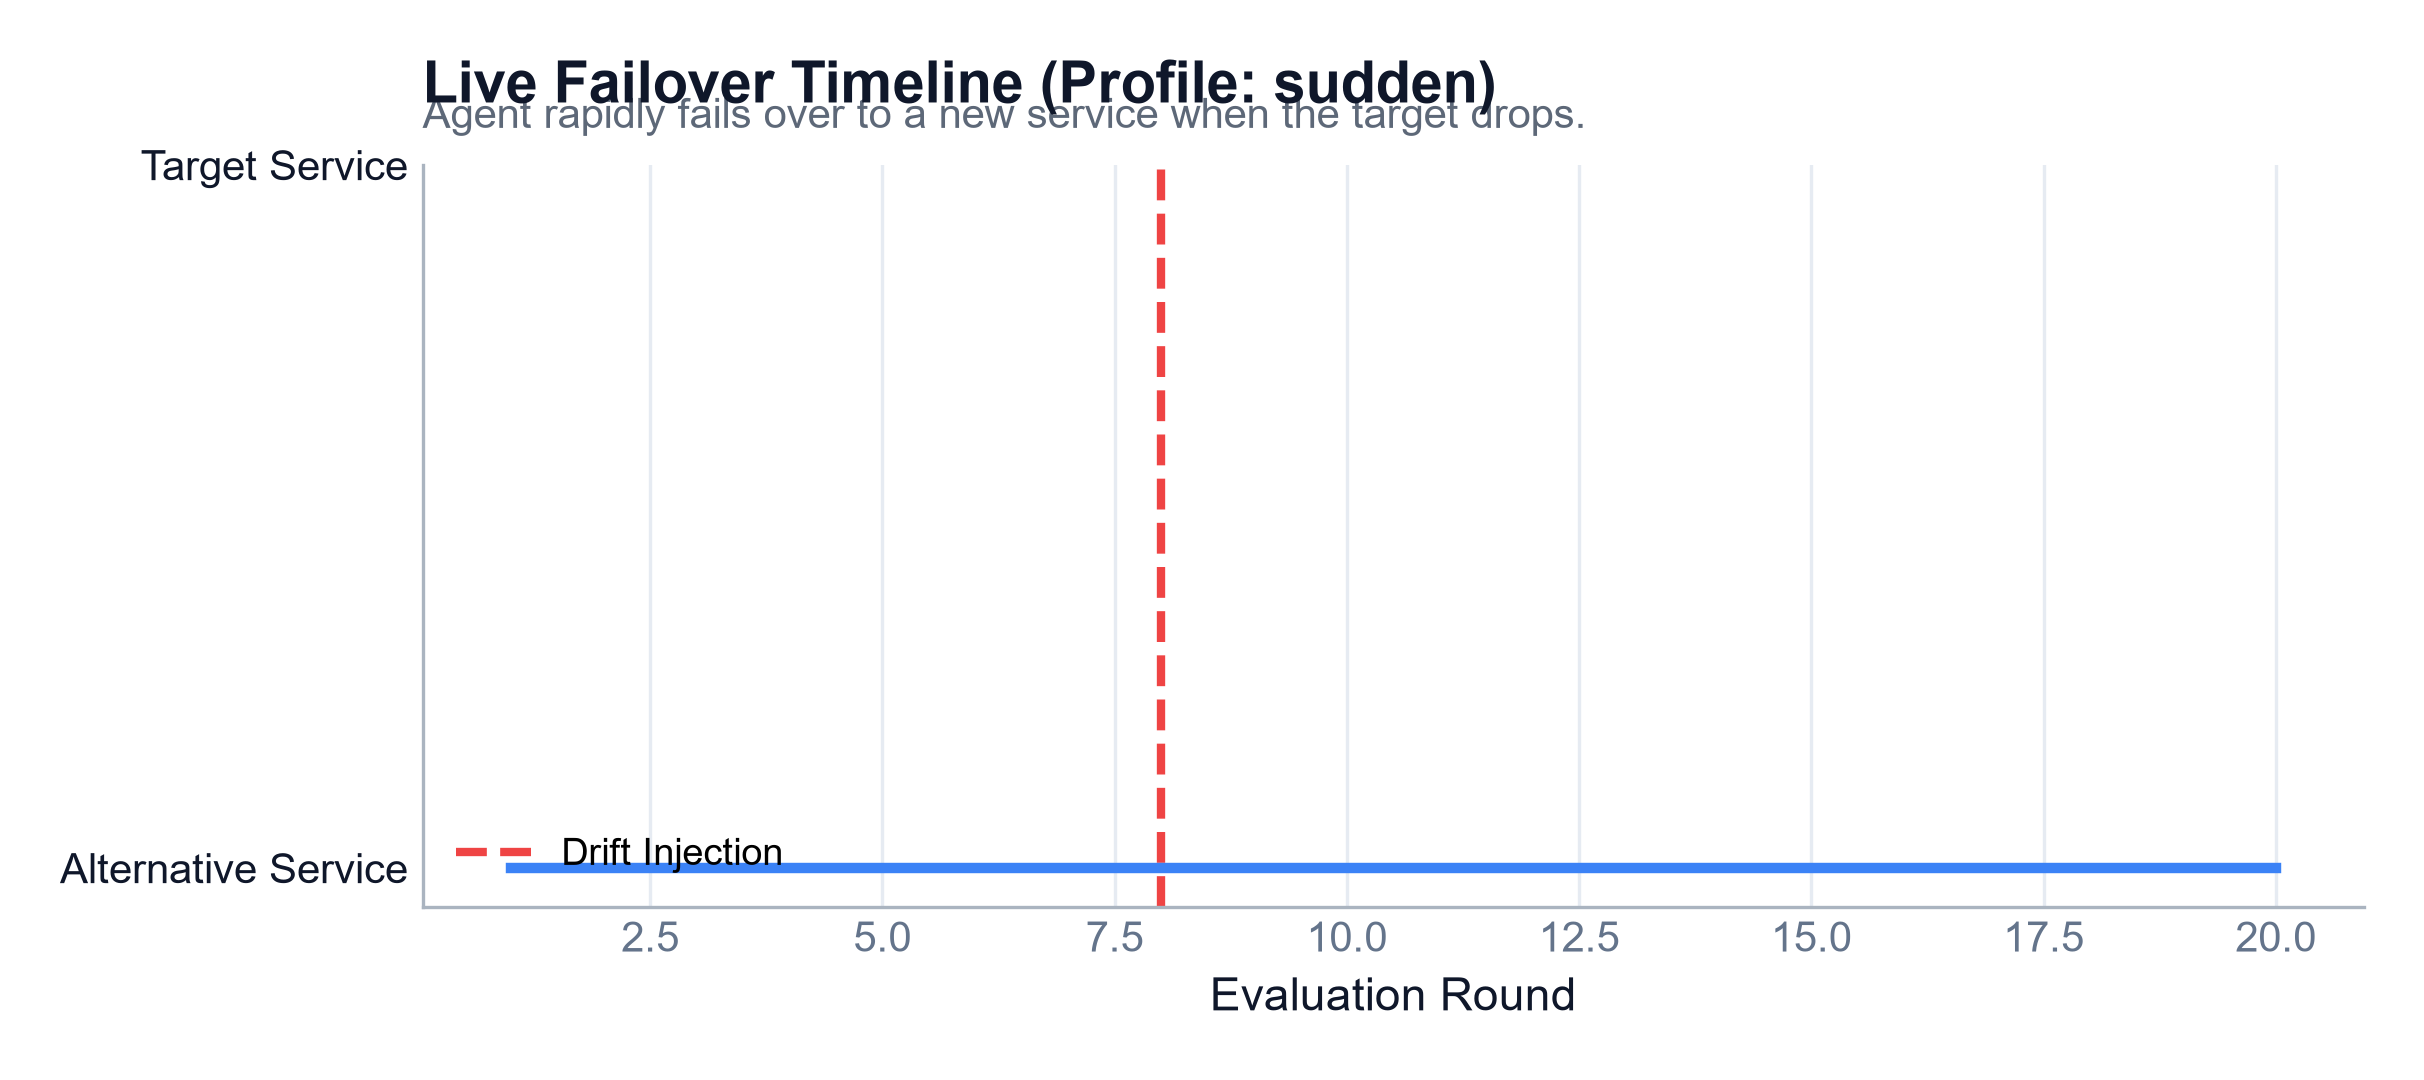
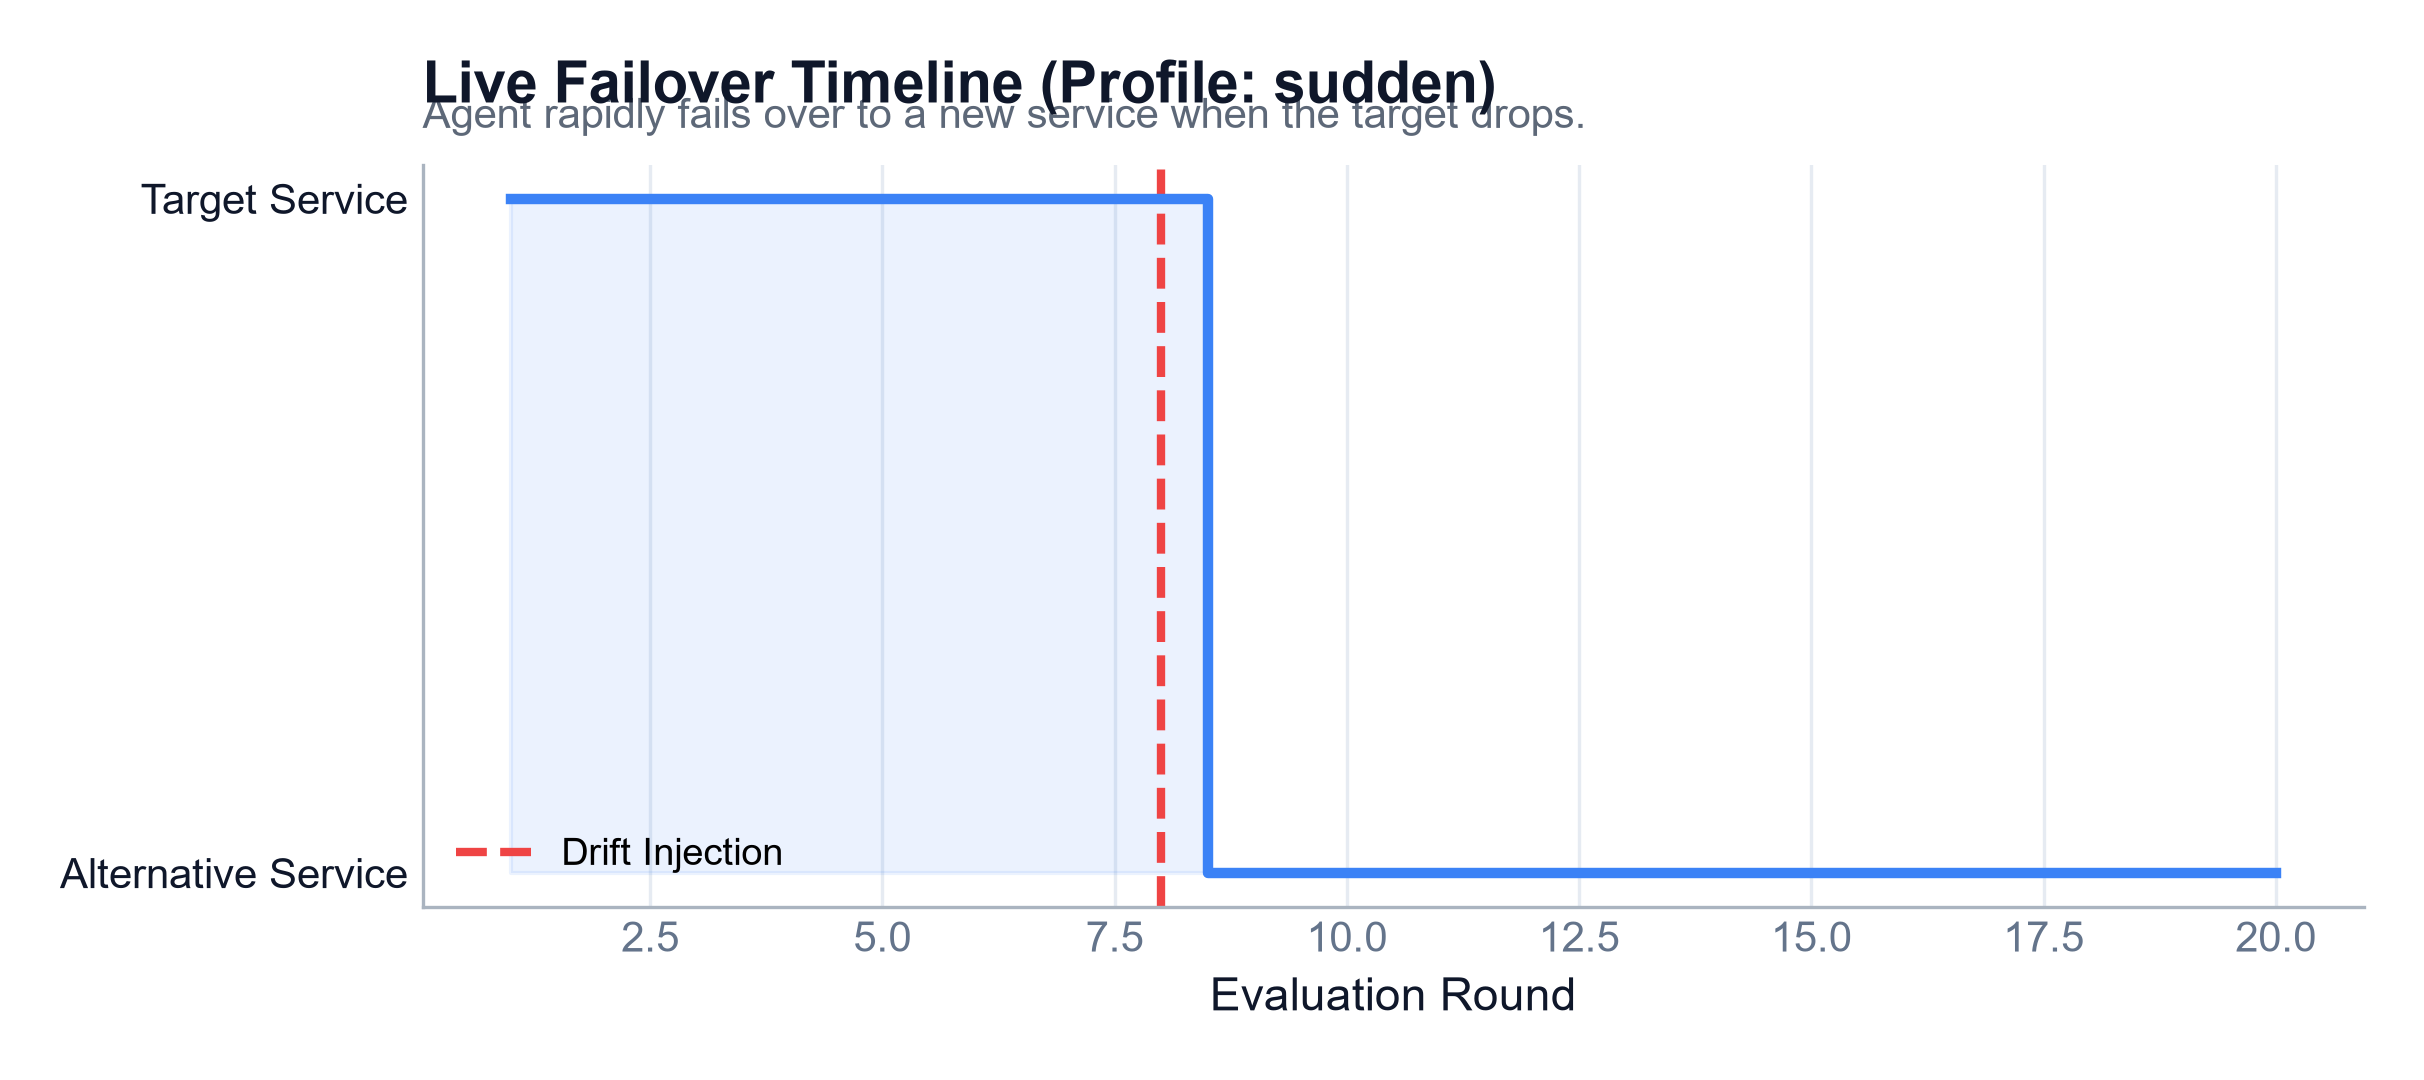
Refactor and update drift_failover_timeline.png and related files

Changed region(s): [[0.2166, 0.1528, 0.9592, 0.825], [0.0619, 0.1222, 0.1856, 0.2139], [0.0309, 0.7944, 0.1856, 0.825]]

diff --git a/src/agentic_selection/evaluation/storage.py b/src/agentic_selection/evaluation/storage.py
@@ -7,6 +7,7 @@ from __future__ import annotations
 
 import abc
 import csv
+import threading
 from pathlib import Path
 from typing import Any, Dict, List, Optional, Set, Tuple
 
@@ -44,6 +45,7 @@ class CsvStorage(ExperimentStorage):
         self.key_columns = list(key_columns)
         self.fieldnames = list(fieldnames)
         self._existing_keys: Optional[Set[Tuple]] = None
+        self._lock = threading.Lock()
 
     def _load_existing_keys(self) -> Set[Tuple]:
         if not self.csv_path.exists() or self.csv_path.stat().st_size == 0:
@@ -59,26 +61,28 @@ class CsvStorage(ExperimentStorage):
             return set()
 
     def should_run(self, key_dict: Dict[str, Any]) -> bool:
-        if self._existing_keys is None:
-            self._existing_keys = self._load_existing_keys()
-        
-        key_tuple = tuple(key_dict[k] for k in self.key_columns)
-        return key_tuple not in self._existing_keys
+        with self._lock:
+            if self._existing_keys is None:
+                self._existing_keys = self._load_existing_keys()
+            
+            key_tuple = tuple(key_dict[k] for k in self.key_columns)
+            return key_tuple not in self._existing_keys
 
     def record(self, row: Dict[str, Any]) -> None:
-        self.csv_path.parent.mkdir(parents=True, exist_ok=True)
-        write_header = not self.csv_path.exists() or self.csv_path.stat().st_size == 0
-        
-        with open(self.csv_path, "a", newline="", encoding="utf-8") as f:
-            writer = csv.DictWriter(f, fieldnames=self.fieldnames)
-            if write_header:
-                writer.writeheader()
-            writer.writerow(row)
-        
-        # update internal cache so subsequent should_run checks are fast
-        if self._existing_keys is not None:
-            key_tuple = tuple(row[k] for k in self.key_columns)
-            self._existing_keys.add(key_tuple)
+        with self._lock:
+            self.csv_path.parent.mkdir(parents=True, exist_ok=True)
+            write_header = not self.csv_path.exists() or self.csv_path.stat().st_size == 0
+            
+            with open(self.csv_path, "a", newline="", encoding="utf-8") as f:
+                writer = csv.DictWriter(f, fieldnames=self.fieldnames)
+                if write_header:
+                    writer.writeheader()
+                writer.writerow(row)
+            
+            # update internal cache so subsequent should_run checks are fast
+            if self._existing_keys is not None:
+                key_tuple = tuple(row[k] for k in self.key_columns)
+                self._existing_keys.add(key_tuple)
 
     def load_all(self) -> pd.DataFrame:
         if not self.csv_path.exists() or self.csv_path.stat().st_size == 0:
